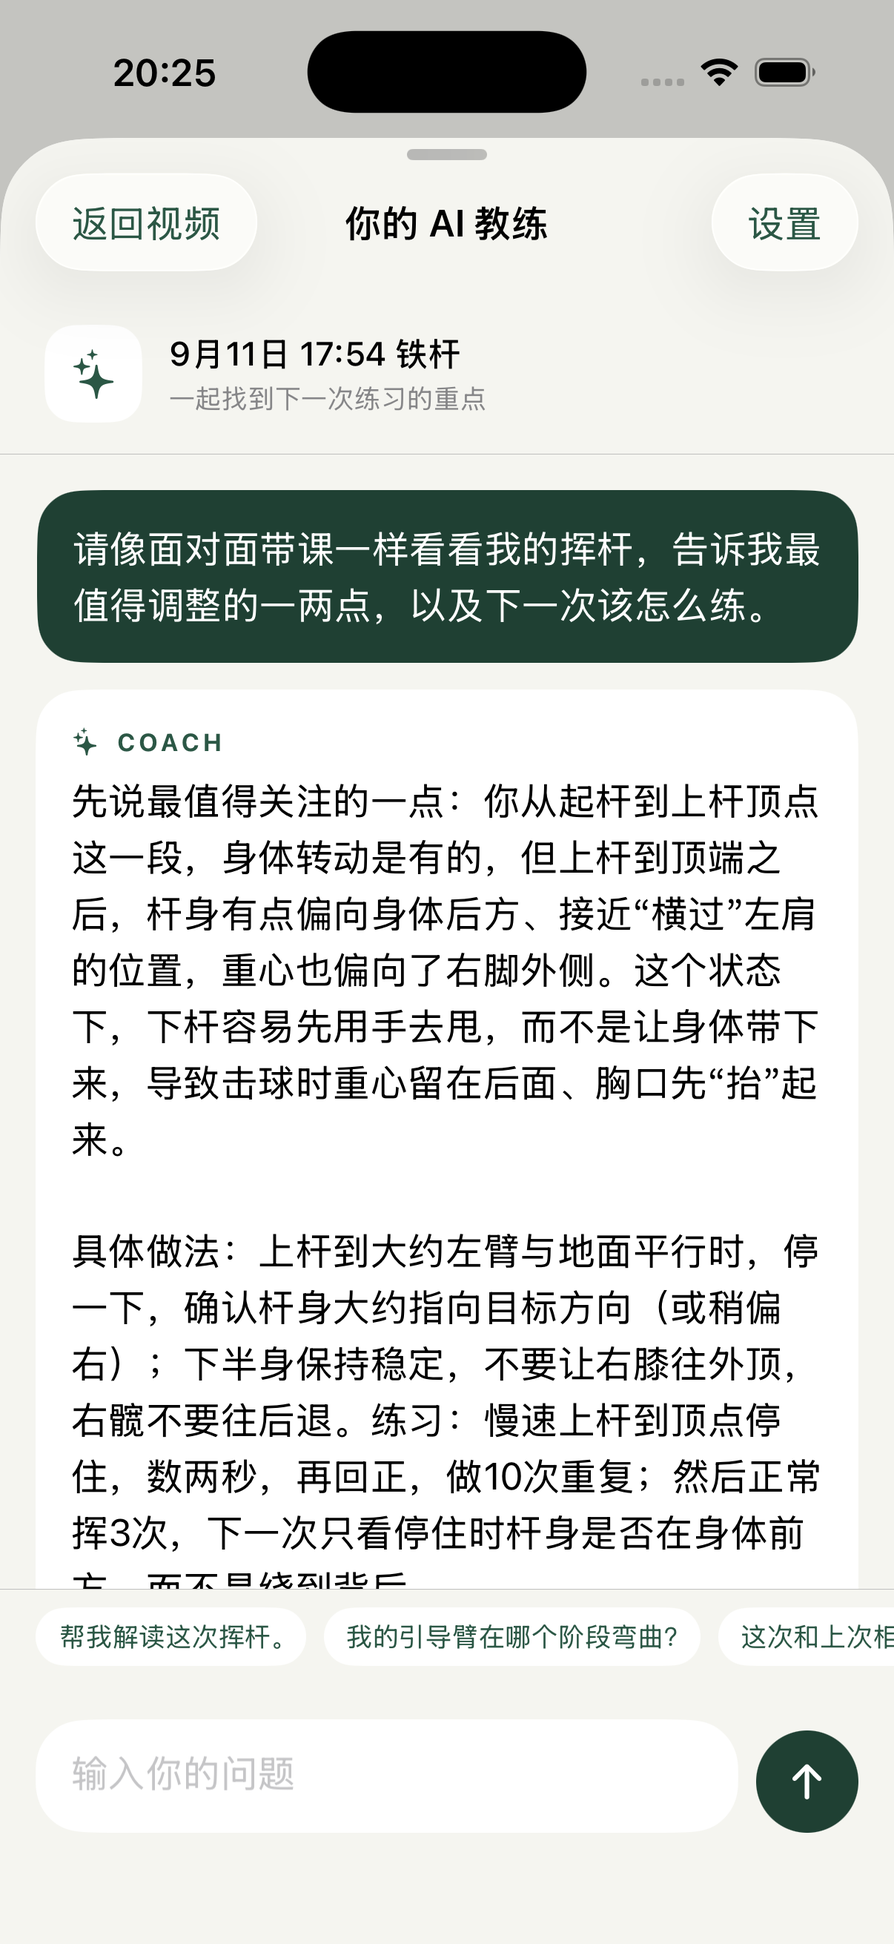
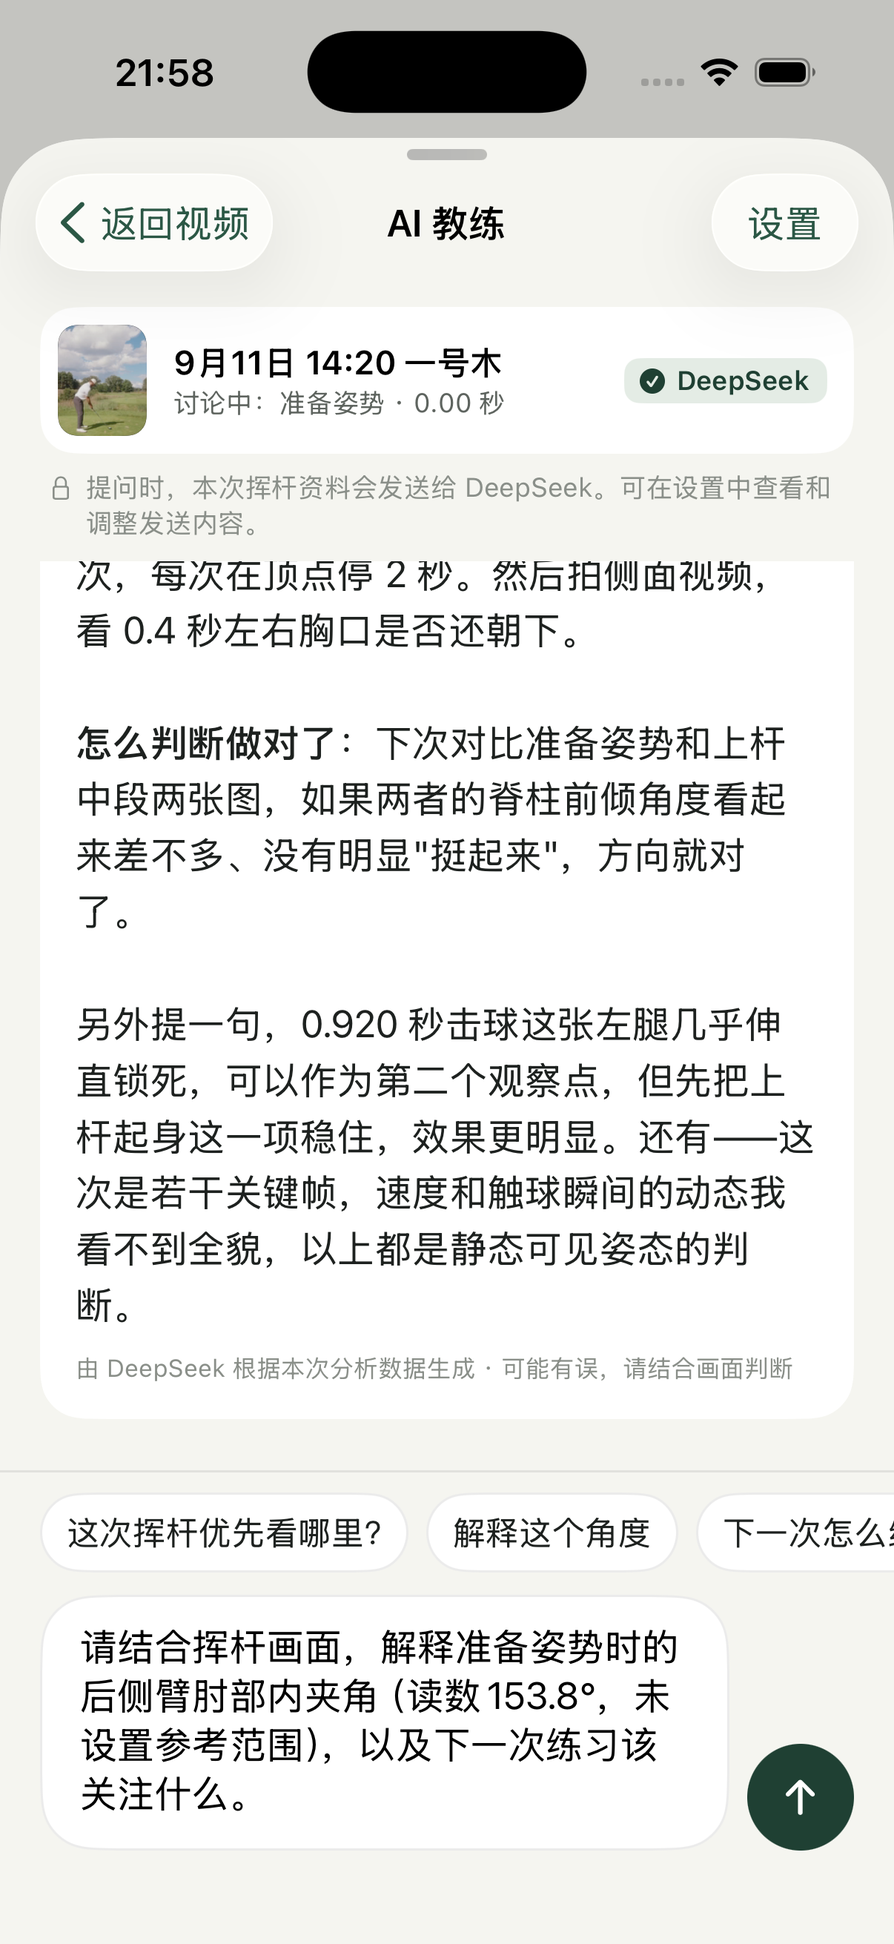
Refresh README introduction and screenshots for redesigned app

diff --git a/README.md b/README.md
@@ -1,95 +1,95 @@
 # CoachMe
 
 <p align="center">
-  <strong>Turn a golf swing video into reviewable pose data, joint angles, and coach-defined feedback.</strong>
+  <strong>See your swing. Understand your next practice.</strong>
 </p>
 
 <p align="center">
-  On-device video analysis · MediaPipe pose tracking · Keyframes and angles · Coach-defined rules
+  An iOS golf workbench for video review, seven swing phases, 2D/3D pose views, and AI coaching.
 </p>
 
 <p align="center">
-  <strong>English</strong> · <a href="README.zh-CN.md">Chinese</a>
+  <strong>English</strong> · <a href="README.zh-CN.md">简体中文</a>
 </p>
 
 <p align="center">
   <img alt="iOS 17+" src="https://img.shields.io/badge/iOS-17%2B-000000?logo=apple&logoColor=white">
-  <img alt="Swift 5.9" src="https://img.shields.io/badge/Swift-5.9-F05138?logo=swift&logoColor=white">
-  <img alt="Version 0.1.0" src="https://img.shields.io/badge/version-0.1.0-2F81F7">
-  <img alt="Core tests 46/46" src="https://img.shields.io/badge/Core_tests-46%2F46-2EA44F">
-  <img alt="App tests 24/24" src="https://img.shields.io/badge/App_tests-24%2F24-2EA44F">
+  <img alt="SwiftUI" src="https://img.shields.io/badge/SwiftUI-native-F05138?logo=swift&logoColor=white">
+  <img alt="MediaPipe Heavy" src="https://img.shields.io/badge/Pose-MediaPipe_Heavy-204B3B">
+  <img alt="Core tests 81 passed" src="https://img.shields.io/badge/Core_tests-81_passed-2EA44F">
 </p>
+
+Import a swing video, review the key moments, and discuss a specific movement with your AI coach. CoachMe brings playback, joint angles, phase review, reports, and follow-up questions into one native SwiftUI app.
 
 ## App screenshots
 
-Captured from the running app on the iPhone 17 Pro Simulator. The 3D view shows the standard address pose; the AI page shows a saved conversation, not a validated coaching assessment.
+The redesigned app, running on the iPhone 17 Pro Simulator. These are real app captures; the AI page contains a saved response and a draft question.
 
 <table>
   <tr>
     <td align="center"><a href="docs/screenshots/home.png"><img src="docs/screenshots/home.png" alt="Home · recent swings" width="300"></a></td>
-    <td align="center"><a href="docs/screenshots/analysis.png"><img src="docs/screenshots/analysis.png" alt="Video analysis · pose overlay" width="300"></a></td>
+    <td align="center"><a href="docs/screenshots/analysis.png"><img src="docs/screenshots/analysis.png" alt="Workbench · seven-phase review" width="300"></a></td>
   </tr>
   <tr>
     <td align="center"><sub>Home · recent swings</sub></td>
-    <td align="center"><sub>Video analysis · pose overlay</sub></td>
+    <td align="center"><sub>Workbench · seven-phase review</sub></td>
   </tr>
   <tr>
-    <td align="center"><a href="docs/screenshots/avatar.png"><img src="docs/screenshots/avatar.png" alt="3D view · standard human model" width="300"></a></td>
-    <td align="center"><a href="docs/screenshots/ai-coach.png"><img src="docs/screenshots/ai-coach.png" alt="AI coach · follow-up questions" width="300"></a></td>
+    <td align="center"><a href="docs/screenshots/report.png"><img src="docs/screenshots/report.png" alt="Report · metrics and review status" width="300"></a></td>
+    <td align="center"><a href="docs/screenshots/ai-coach.png"><img src="docs/screenshots/ai-coach.png" alt="AI coach · discuss a specific movement" width="300"></a></td>
   </tr>
   <tr>
-    <td align="center"><sub>3D view · standard human model</sub></td>
-    <td align="center"><sub>AI coach · follow-up questions</sub></td>
+    <td align="center"><sub>Report · metrics and review status</sub></td>
+    <td align="center"><sub>AI coach · discuss a specific movement</sub></td>
   </tr>
 </table>
 
-## Latest functionality
+## From video to practice
 
-- MediaPipe Heavy by default; local SwingNet detects seven phases, with retry for saved records and manual correction.
-- Display-only temporal/body-proportion skeleton completion in 2D and 3D. Estimated segments are dashed and excluded from measurements. A central spine avoids crossed torso diagonals in the 2D projection.
-- OpenAI, Claude, Gemini, DeepSeek, and OpenAI-compatible APIs for coaching from original keyframe images, supported by metrics, and follow-up questions. User API keys are stored in the device Keychain.
-- 64 core regression tests passed, followed by added authentication/timeout checks; six simulator chat integration tests passed. Real-provider calls require a user API key for verification.
+1. **Import and trim.** Select a video from Photos, keep one complete swing, and set handedness, club, camera view, and slow-motion mode. Follow analysis progress on the device.
+2. **Review seven phases.** Move through address, takeaway, mid-backswing, top, mid-downswing, impact, and finish. Play slowly, step frame by frame, confirm a candidate, or mark the current frame.
+3. **Explore the movement.** Switch between the video with a 2D pose overlay and a rotatable 3D human model. Inspect sided elbow and knee angles, use landscape playback, and scrub angle curves to return to the video.
+4. **Read the report.** Check metrics by phase, compare them with your coach-defined ranges, and see exactly which keyframes still need review. Tap a metric for its definition and a direct route to the AI coach.
+5. **Ask follow-up questions.** Discuss priorities and practice ideas using OpenAI, Claude, Gemini, DeepSeek, or an OpenAI-compatible endpoint. A supported vision model can interpret swing images with angle data as supporting context.
 
-Preview and trim one complete swing before importing; completed analysis opens the workbench. If full-frame phase detection fails, a person crop is attempted. Automatic phase candidates require review. Saved records support retry, manual marks, and reselecting a clip. See [model conversion and upstream terms](tools/swingnet/README.md) and [AI setup/data scope](docs/AI_INTEGRATION.md).
+## Inside the app
 
-## What works today
+| Area | Current implementation |
+|---|---|
+| Interface | Warm-white and forest-green SwiftUI screens, shared controls, fixed report/AI actions |
+| Pose | MediaPipe Heavy, 33 landmarks, temporal smoothing and display-only completion |
+| Keyframes | Local SwingNet inference with seven app phases, person-crop retry, manual marking and review |
+| 3D view | Rigged human mesh driven by pose estimates, with rotation and zoom |
+| Curves | Sided angle traces; missing readings break the line instead of being bridged |
+| Rules | Editable ranges, sources and applicable conditions; rules can be enabled or disabled |
+| AI coach | Provider settings, Keychain storage, contextual questions and scrolling to new messages |
+| Storage | Local videos, analysis records and conversation history |
 
-- Import real swing footage from Photos and analyze it on the device
-- Produce 33 landmarks and world landmarks with MediaPipe
-- Detect keyframes and calculate joint- and torso-based metrics
-- Smooth landmarks with tuned One Euro presets for real-time and slow-motion footage
-- Evaluate coach-entered ranges together with their sources and conditions
-- Package results into structured chat context for a future model integration
+Pose, phase detection, and angle calculations run on the device. When you ask the configured AI service, the app sends the relevant analysis, conversation context and, if enabled, up to 13 selected video frames; it does not upload the complete video. See [AI setup and data scope](docs/AI_INTEGRATION.md).
 
-> [!IMPORTANT]
-> CoachMe ships **no built-in “correct” angles**. Outside a range means only
-> “outside the range you set,” never “wrong.” When data is insufficient, the app
-> says it cannot calculate reliably instead of substituting zero or an estimate.
+## Recent improvements
 
-## Runnable and verified
+- Unified the Home, Import, Workbench, Report, AI Coach, Rules, and Settings screens.
+- Made analysis progress scrollable with a fixed cancel action; limited thumbnail caching and preview refreshes.
+- Smoothed the 2D display skeleton while keeping measurement data separate from display completion.
+- Fixed report pending counts and carried the selected phase, side, and metric into an editable AI question.
+- Preserved provisional report rows and broke angle curves at missing or non-finite readings.
 
-The current version completes the full analysis path on both the iOS Simulator
-and a physical iPhone.
+## Verification
+
+Recorded on September 11, 2026:
 
 | Check | Result |
 |---|---|
-| `CoachMeCore` build | ✅ 0 errors, 0 warnings |
-| `CoachMeCore` tests | ✅ **46/46** with XCTest |
-| iOS app tests | ✅ **24/24** on the iPhone 15 Simulator |
-| Real-video pipeline | ✅ decode → pose → keyframes → metrics → rules → chat context |
-| MediaPipe inference | ✅ 33 landmarks and world landmarks on real footage |
-| Node reference checks | ✅ geometry 31/31, rules 25/25 |
-| Physical device | ✅ iPhone 16 Pro / iOS 26.4.2: installed, launched, and completed one analysis |
+| Core tests | 81 passed |
+| iOS regression suite | 33 passed; 1 real-provider API test skipped |
+| Targeted UI-logic regression | 9 passed after adding report-context, metric-question, and curve-gap cases; overlaps the full suite |
+| Builds | iOS Simulator and physical-device builds succeeded |
+| Video workflow | An 8.8-second clip completed analysis and produced seven candidates for review |
+| UI walkthrough | Home, 2D/3D, landscape, curves, report details, AI question handoff, rules, settings and clip selection |
+| Physical device | Latest build installed on iPhone 16 Pro; automatic launch was blocked by the lock screen |
 
-**Device environment:** Xcode 26.6, iOS 26.5 SDK, and a free Personal Team.
-The Simulator build was also verified with Xcode 15.4 and the iOS 17.5 SDK.
-MediaPipeTasksVision 0.10.21 is linked.
-
-> [!NOTE]
-> Runnable does not mean measurement accuracy has been established. The output
-> has not been compared with manual annotation or motion capture, so this project
-> publishes no accuracy figure. Device alignment, performance, memory, and battery
-> behavior also await systematic evaluation. See [`docs/LIMITATIONS.md`](docs/LIMITATIONS.md).
+These checks establish functionality, not measurement or coaching accuracy. Pose estimates and automatic phase labels still need review. Reference ranges come from the user's coach rules. See [measurement limitations](docs/LIMITATIONS.md), [SwingNet sources and terms](tools/swingnet/README.md), and [3D model attribution](CoachMe/Resources/GolfAvatar-LICENSE.txt).
 
 ## Quick start
 
@@ -129,7 +129,7 @@ lost the next time the generated project is rebuilt.
 swift test --package-path CoachMeCore
 
 xcodebuild -workspace CoachMe.xcworkspace -scheme CoachMe \
-  -destination 'platform=iOS Simulator,name=iPhone 15' test
+  -destination 'platform=iOS Simulator,name=iPhone 17 Pro' test
 ```
 
 With only the Command Line Tools and no full Xcode installation:
@@ -157,10 +157,10 @@ CoachMeCore/                 Pure Swift logic; no SwiftUI, AVFoundation, or Medi
     Smoothing/               One Euro filter and pose-sequence smoothing
     Rules/                   Coach rules and the evaluation engine
     Chat/                    Messages, conversations, context, and ChatService
-  Tests/                     46 tests
+  Tests/                     Core regression tests
 
 CoachMe/                     iOS app target
-CoachMeTests/                24 app tests
+CoachMeTests/                iOS regression and integration tests
 tools/reference/             Node geometry and rules reference implementation
 tools/no-xcode-testrunner/   XCTest shim for machines without full Xcode
 tools/setup-xcode-project.sh Generate the project and install dependencies

diff --git a/README.zh-CN.md b/README.zh-CN.md
@@ -1,11 +1,11 @@
 # CoachMe
 
 <p align="center">
-  <strong>把一段挥杆视频，变成可复核的姿态、角度与教练反馈。</strong>
+  <strong>看清每一次挥杆，让下一次练习更有方向。</strong>
 </p>
 
 <p align="center">
-  本地视频分析 · MediaPipe 姿态识别 · 关键帧与关节角度 · 自定义教练规则
+  iOS 高尔夫分析工作台 · 七阶段复核 · 二维 / 三维动作查看 · AI 教练
 </p>
 
 <p align="center">
@@ -14,78 +14,82 @@
 
 <p align="center">
   <img alt="iOS 17+" src="https://img.shields.io/badge/iOS-17%2B-000000?logo=apple&logoColor=white">
-  <img alt="Swift 5.9" src="https://img.shields.io/badge/Swift-5.9-F05138?logo=swift&logoColor=white">
-  <img alt="版本 0.1.0" src="https://img.shields.io/badge/version-0.1.0-2F81F7">
-  <img alt="Core 测试 46/46" src="https://img.shields.io/badge/Core_tests-46%2F46-2EA44F">
-  <img alt="App 测试 24/24" src="https://img.shields.io/badge/App_tests-24%2F24-2EA44F">
+  <img alt="SwiftUI" src="https://img.shields.io/badge/SwiftUI-native-F05138?logo=swift&logoColor=white">
+  <img alt="MediaPipe Heavy" src="https://img.shields.io/badge/Pose-MediaPipe_Heavy-204B3B">
+  <img alt="Core tests 81 passed" src="https://img.shields.io/badge/Core_tests-81_passed-2EA44F">
 </p>
+
+导入一段挥杆视频，逐帧看清关键动作，再与 AI 教练讨论具体问题。CoachMe 将视频回放、关节角度、阶段复核、分析报告和连续提问放进同一个原生 SwiftUI App。
 
 ## 运行截图
 
-以下为 iPhone 17 Pro 模拟器中的真实运行截图。三维页展示标准准备姿势；AI 页为已保存的对话示例，不代表教练结论经过准确性验证。
+新版界面在 iPhone 17 Pro 模拟器中的真实运行截图。AI 页面展示已保存的回复和待发送的具体问题。
 
 <table>
   <tr>
     <td align="center"><a href="docs/screenshots/home.png"><img src="docs/screenshots/home.png" alt="首页 · 最近挥杆" width="300"></a></td>
-    <td align="center"><a href="docs/screenshots/analysis.png"><img src="docs/screenshots/analysis.png" alt="视频分析 · 骨架叠加" width="300"></a></td>
+    <td align="center"><a href="docs/screenshots/analysis.png"><img src="docs/screenshots/analysis.png" alt="工作台 · 七阶段复核" width="300"></a></td>
   </tr>
   <tr>
     <td align="center"><sub>首页 · 最近挥杆</sub></td>
-    <td align="center"><sub>视频分析 · 骨架叠加</sub></td>
+    <td align="center"><sub>工作台 · 七阶段复核</sub></td>
   </tr>
   <tr>
-    <td align="center"><a href="docs/screenshots/avatar.png"><img src="docs/screenshots/avatar.png" alt="三维视图 · 标准人体" width="300"></a></td>
-    <td align="center"><a href="docs/screenshots/ai-coach.png"><img src="docs/screenshots/ai-coach.png" alt="AI 教练 · 连续提问" width="300"></a></td>
+    <td align="center"><a href="docs/screenshots/report.png"><img src="docs/screenshots/report.png" alt="分析报告 · 指标与复核状态" width="300"></a></td>
+    <td align="center"><a href="docs/screenshots/ai-coach.png"><img src="docs/screenshots/ai-coach.png" alt="AI 教练 · 讨论具体动作" width="300"></a></td>
   </tr>
   <tr>
-    <td align="center"><sub>三维视图 · 标准人体</sub></td>
-    <td align="center"><sub>AI 教练 · 连续提问</sub></td>
+    <td align="center"><sub>分析报告 · 指标与复核状态</sub></td>
+    <td align="center"><sub>AI 教练 · 讨论具体动作</sub></td>
   </tr>
 </table>
 
-## 本次功能更新
+## 从视频到下一次练习
 
-- MediaPipe Heavy 默认姿态模型；本地 SwingNet 自动识别七个阶段，支持旧记录重试和人工调整。
-- 二维/三维显示骨架按时序与人体比例补全，虚线表示估计；二维躯干使用中央脊柱避免投影交叉。补全不参与指标评分。
-- 可配置 OpenAI、Claude、Gemini、DeepSeek 和 OpenAI 兼容 API，支持结合原视频关键帧的教练式指导与连续问答，指标辅助判断。密钥存于本机钥匙串。
-- 核心回归 64 项通过，后补认证/超时用例通过；聊天模拟器集成 6 项通过。真实 LLM 调用需填入自己的 API Key 后验证。
+1. **导入与选段。** 从相册选择视频，保留一次完整挥杆，设置持杆手、球杆、视角和慢动作模式，在设备上查看分析进度。
+2. **复核七个阶段。** 准备、上杆下段、上杆中段、顶点、下杆中段、击球、收杆。支持慢放、逐帧前后移动、确认候选帧或用当前画面重新标记。
+3. **看清动作变化。** 在二维骨架叠加和可旋转三维人体之间切换，查看两侧肘、膝角度；支持横屏回放，从角度曲线定位回视频。
+4. **阅读分析报告。** 按动作阶段查看指标和自定义参考范围，明确哪些关键帧仍待复核。点开指标可查看定义，并直接带着这个问题进入 AI 教练。
+5. **继续提问。** 使用 OpenAI、Claude、Gemini、DeepSeek 或 OpenAI 兼容接口，讨论动作重点和练习思路。支持图像输入的模型可结合挥杆画面解读，角度数据辅助判断。
 
-导入时可预览并选择单次完整挥杆，分析后直接进入工作台。全图识别失败会尝试人物增强；生成的阶段仍需逐帧复核。已有视频可重试、手动调整或重新选段分析。模型来源、转换及许可见 [tools/swingnet](tools/swingnet/README.md)，AI 配置与数据范围见 [接入说明](docs/AI_INTEGRATION.md)。
+## 功能一览
 
-## 现在可以做什么
+| 模块 | 当前实现 |
+|---|---|
+| 界面 | 暖白与森林绿 SwiftUI 界面、统一控件、底部固定报告与 AI 入口 |
+| 姿态 | MediaPipe Heavy、33 个关键点、时序平滑与仅用于显示的骨架补全 |
+| 关键帧 | 本地 SwingNet 七阶段识别、人物增强重试、手动标记与复核 |
+| 三维视图 | 由姿态估计驱动绑定骨骼的人体模型，支持旋转与缩放 |
+| 角度曲线 | 区分两侧的角度变化；缺失数据处断开，不跨空白连线 |
+| 教练规则 | 自定义范围、来源和适用条件，可单独启用或停用 |
+| AI 教练 | 多服务配置、本机钥匙串保存 Key、具体指标提问、新消息自动滚动 |
+| 本地记录 | 保存视频、分析结果和历史对话 |
 
-- 从相册导入真实挥杆视频，在设备本地完成分析
-- 使用 MediaPipe 生成 33 个关键点与 world landmarks
-- 自动识别关键帧，计算关节和躯干相关指标
-- 使用 One Euro 滤波平滑关键点，并区分实时与慢动作预设
-- 由教练录入参考范围、来源和适用条件，再生成规则判定
-- 将分析结果整理成结构化上下文，由已配置的大模型解读并支持连续提问
+姿态识别、动作阶段识别和角度计算在本机完成。向已配置的 AI 服务提问时，会发送相关分析、对话上下文，以及启用时最多 13 张选定的视频画面；不上传完整视频。详见 [AI 配置与数据范围](docs/AI_INTEGRATION.md)。
 
-> [!IMPORTANT]
-> CoachMe **不内置任何“正确”角度**。超出范围只表示“超出你设置的范围”，
-> 不代表动作错误。数据不足时会明确显示“无法可靠计算”，不会用 0 或推算值填充。
+## 最近更新
 
-## 可运行状态
+- 首页、导入、工作台、报告、AI 教练、规则与设置统一为新版界面。
+- 分析进度可滚动，取消按钮固定在底部；限制缩略图缓存与预览刷新频率。
+- 二维显示骨架增加平滑，显示补全与测量数据分开处理。
+- 报告显示真实待复核数量，所选阶段、侧别与角度可带入 AI 提问框。
+- 待复核阶段保留指标；曲线在缺失或非有限读数处断开。
 
-当前版本已在模拟器和真机完成端到端运行验证。
+## 验证记录
+
+2026 年 9 月 11 日验证结果：
 
 | 验证项 | 结果 |
 |---|---|
-| `CoachMeCore` 编译 | ✅ 0 error，0 warning |
-| `CoachMeCore` 测试 | ✅ **46/46**（XCTest） |
-| iOS App 测试 | ✅ **24/24**（iPhone 15 模拟器） |
-| 真实视频分析链路 | ✅ 解码 → 姿态 → 关键帧 → 指标 → 规则判定 → 聊天上下文 |
-| MediaPipe 推理 | ✅ 在真实素材上输出 33 个关键点与 world landmarks |
-| Node 参考验证 | ✅ 几何 31/31，规则 25/25 |
-| 真机运行 | ✅ iPhone 16 Pro / iOS 26.4.2：安装、启动并完成一次分析 |
+| Core 测试 | 81 项通过 |
+| iOS 回归测试 | 33 项通过，1 项真实 API 测试按配置跳过 |
+| 界面逻辑定向回归 | 新增报告上下文、具体指标提问、曲线断线用例后，9 项通过；与完整套件有重叠 |
+| 构建 | iOS 模拟器与真机版本构建通过 |
+| 视频流程 | 8.8 秒视频完成分析，生成 7 个待复核候选帧 |
+| 界面走查 | 首页、二维 / 三维、横屏、曲线、报告详情、AI 提问跳转、规则、设置与选段 |
+| 手机安装 | 最新版已覆盖安装到 iPhone 16 Pro；自动启动因手机锁屏被系统阻止 |
 
-**真机环境：** Xcode 26.6、iOS 26.5 SDK、免费个人团队签名。模拟器构建也已在
-Xcode 15.4 / iOS 17.5 SDK 上验证。MediaPipeTasksVision 0.10.21 已链接。
-
-> [!NOTE]
-> “可运行”不等于“测量准确度已验证”。项目尚未与人工标注或动作捕捉系统做对照，
-> 因此不提供准确率数字。骨架对齐、性能、内存和电量也尚未完成系统评估。
-> 详见 [`docs/LIMITATIONS.md`](docs/LIMITATIONS.md)。
+上述验证针对功能运行，不代表测量或教练建议的准确度已经验证。姿态估计和自动阶段仍需复核，参考范围来自用户设置的教练规则。相关说明见 [测量限制](docs/LIMITATIONS.md)、[SwingNet 来源与许可](tools/swingnet/README.md)、[三维模型归属](CoachMe/Resources/GolfAvatar-LICENSE.txt)。
 
 ## 快速开始
 
@@ -124,7 +128,7 @@ Xcode Signing 面板，否则重新生成工程时会被覆盖。
 swift test --package-path CoachMeCore
 
 xcodebuild -workspace CoachMe.xcworkspace -scheme CoachMe \
-  -destination 'platform=iOS Simulator,name=iPhone 15' test
+  -destination 'platform=iOS Simulator,name=iPhone 17 Pro' test
 ```
 
 只有 Command Line Tools、没有完整 Xcode 时，可以运行：
@@ -152,10 +156,10 @@ CoachMeCore/                 纯 Swift 逻辑，不依赖 SwiftUI / AVFoundation
     Smoothing/               One Euro 滤波与序列平滑
     Rules/                   教练规则与判定引擎
     Chat/                    消息、会话、分析上下文、ChatService 接口
-  Tests/                     46 个测试
+  Tests/                     核心回归测试
 
 CoachMe/                     iOS App 目标
-CoachMeTests/                24 个 App 测试
+CoachMeTests/                iOS 回归与集成测试
 tools/reference/             Node 几何与规则参考实现
 tools/no-xcode-testrunner/   无完整 Xcode 时的 XCTest 垫片
 tools/setup-xcode-project.sh 生成工程并安装依赖
